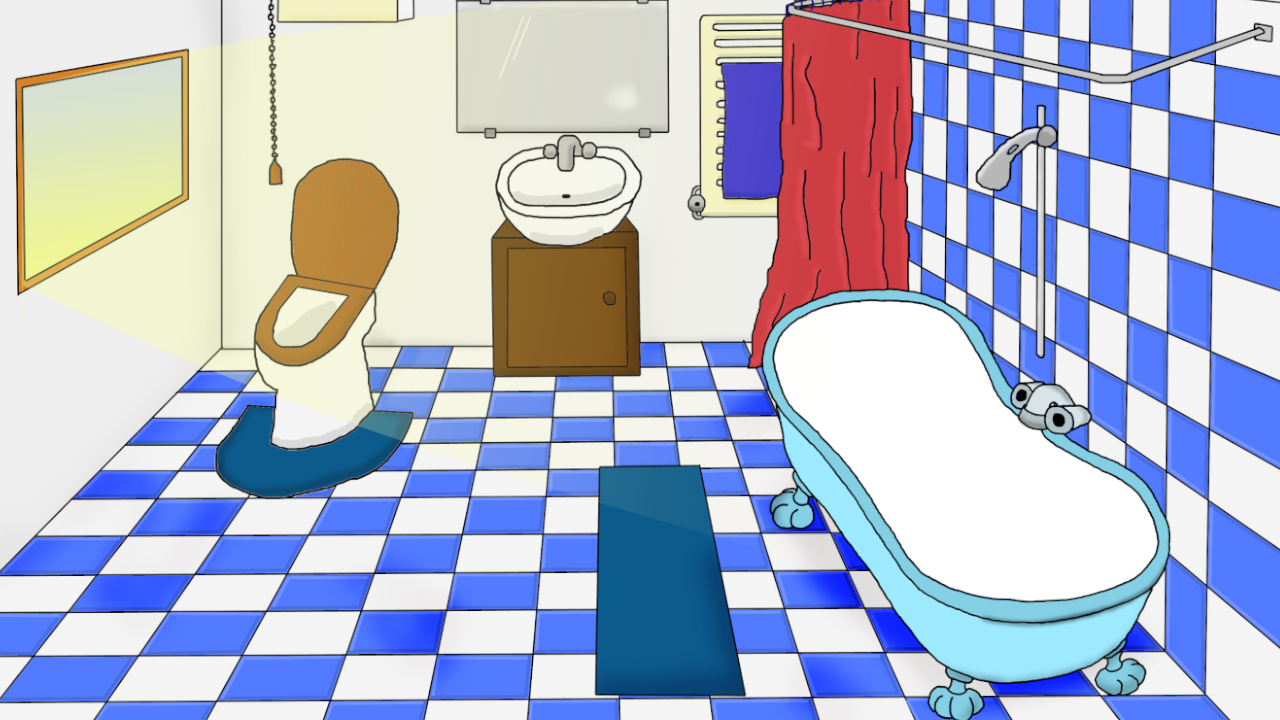
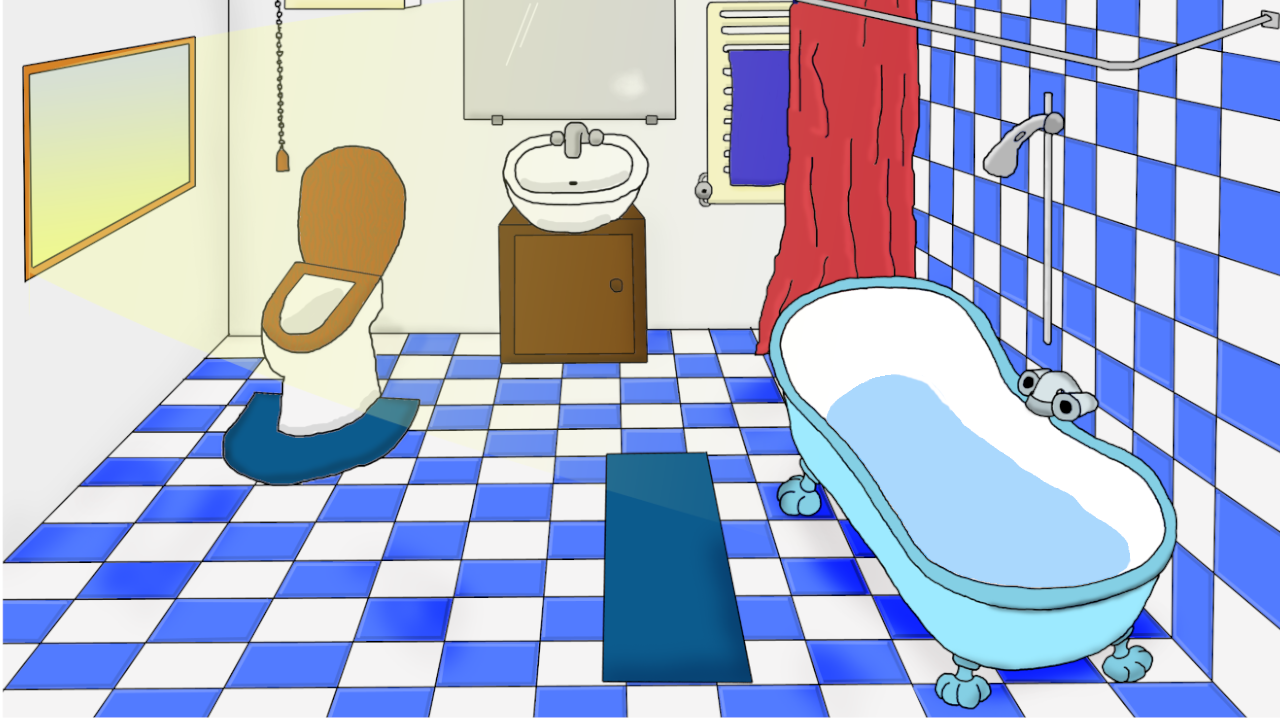
Wasseranimation

diff --git a/core/src/main/kotlin/org/wanne/game/screens/menu/MenuScreen.kt b/core/src/main/kotlin/org/wanne/game/screens/menu/MenuScreen.kt
@@ -11,6 +11,7 @@ import com.badlogic.gdx.scenes.scene2d.utils.ChangeListener
 import com.badlogic.gdx.utils.ScreenUtils
 import com.badlogic.gdx.utils.viewport.FitViewport
 import org.wanne.game.WanneGame
+import org.wanne.game.model.animation.WaterAnimation
 import org.wanne.game.model.player.Duck
 import org.wanne.game.model.player.Player
 import org.wanne.game.model.player.PoolAttendant
@@ -33,6 +34,8 @@ class MenuScreen(
 
     private val buttonAtlas: TextureAtlas = game.am.get("pictures/Buttons/buttons.atlas")
 
+    private val waterAnimation = WaterAnimation(938F, 170F, true, game.am)
+
     init {
         duck.scaleX *= 1.2F
         duck.scaleY *= 1.2F
@@ -46,7 +49,7 @@ class MenuScreen(
         viewport = FitViewport(1280f, 720f)
 
         batch = game.batch
-        stage = MainMenuStage(viewport, poolAttendant, duck, emptyList())
+        stage = MainMenuStage(viewport, poolAttendant, duck, listOf(waterAnimation))
 
         logoHeadline.x = 100f
         logoHeadline.y = 550f

diff --git a/core/src/main/kotlin/org/wanne/game/model/animation/WaterAnimation.kt b/core/src/main/kotlin/org/wanne/game/model/animation/WaterAnimation.kt
@@ -1,0 +1,27 @@
+package org.wanne.game.model.animation
+
+import com.badlogic.gdx.graphics.g2d.Animation
+import com.badlogic.gdx.graphics.g2d.Sprite
+import com.badlogic.gdx.graphics.g2d.TextureAtlas
+import com.badlogic.gdx.graphics.g2d.TextureRegion
+import org.wanne.game.AssetsManager
+
+class WaterAnimation(
+    posX: Float,
+    posY: Float,
+    visible: Boolean,
+    am: AssetsManager
+): org.wanne.game.model.animation.Animation(posX, posY, visible, am) {
+    private val waterFlowing: TextureAtlas = am.get("pictures/Menue/water.atlas")
+
+    private val waterAnimation = Animation(
+        0.099f,
+        waterFlowing.createSprites("water"),
+        Animation.PlayMode.LOOP,
+    )
+
+    override fun getTextureRegionOfCurrentState(time: Float): TextureRegion? {
+        return waterAnimation.getKeyFrame(time)
+    }
+
+}

diff --git a/core/src/main/kotlin/org/wanne/game/AssetsManager.kt b/core/src/main/kotlin/org/wanne/game/AssetsManager.kt
@@ -63,6 +63,8 @@ class AssetsManager {
         assetManager.load("pictures/Puzzle/puzzle.atlas", TextureAtlas::class.java)
 
         assetManager.load("pictures/Items/iceman.atlas", TextureAtlas::class.java)
+
+        assetManager.load("pictures/Menue/water.atlas", TextureAtlas::class.java)
     }
 
     fun loadMusic() {
